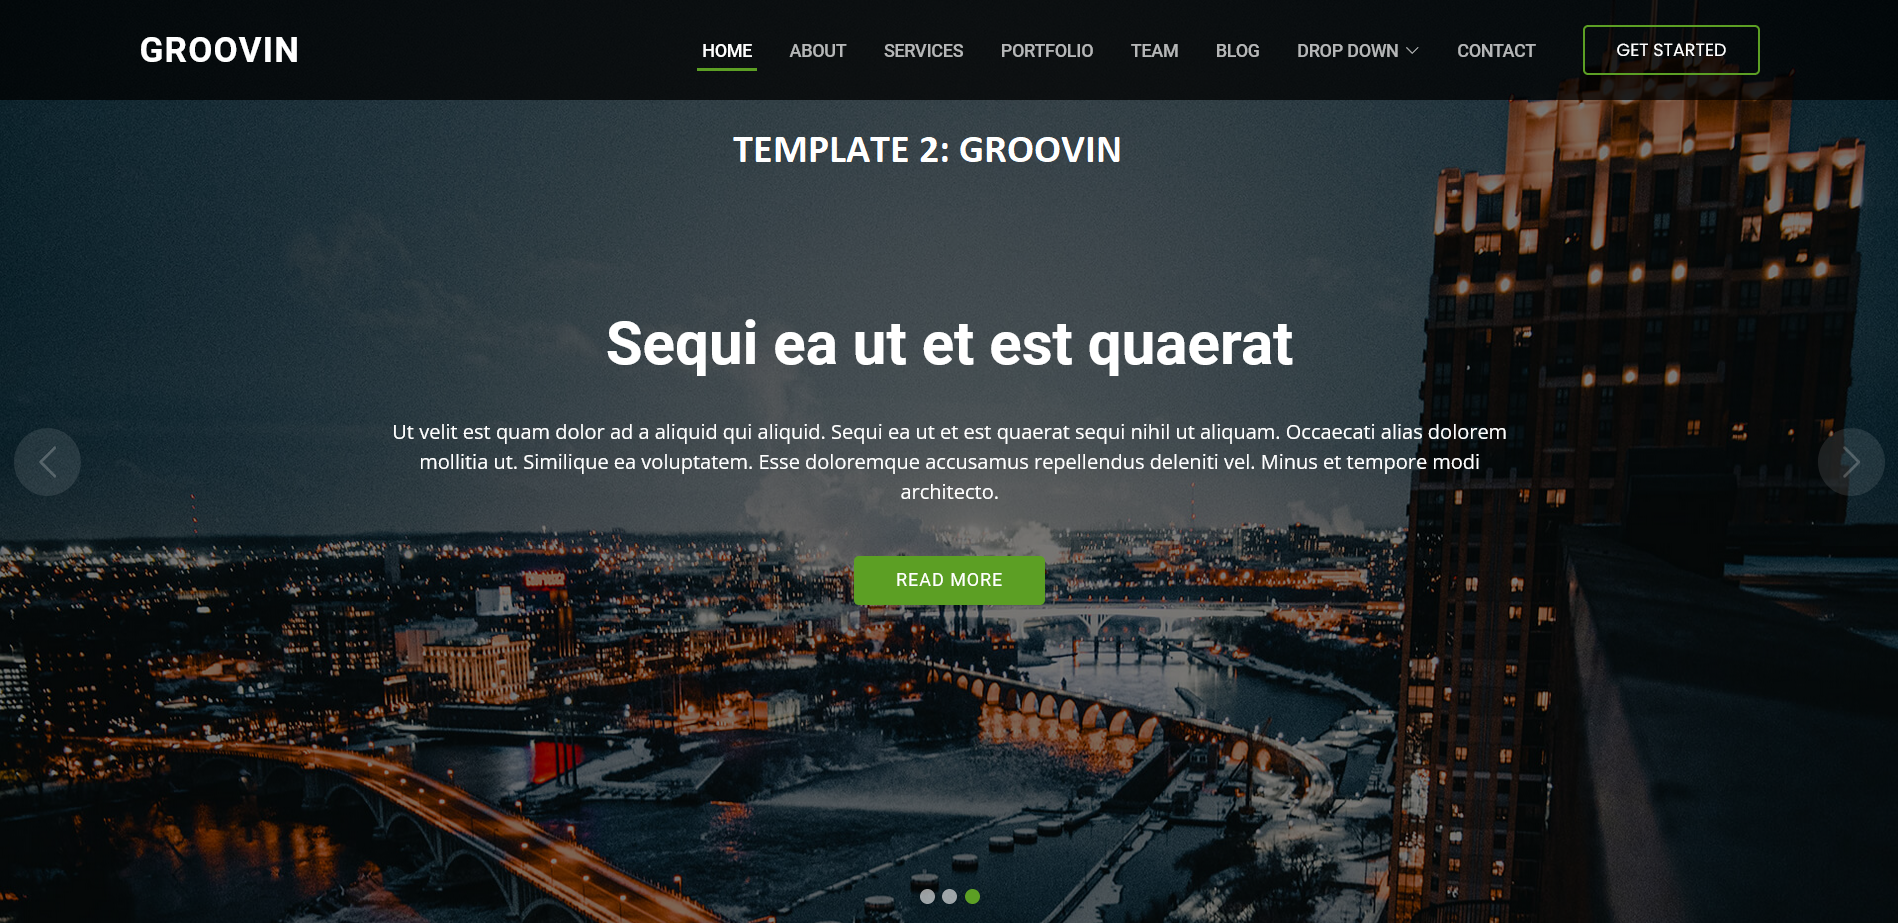
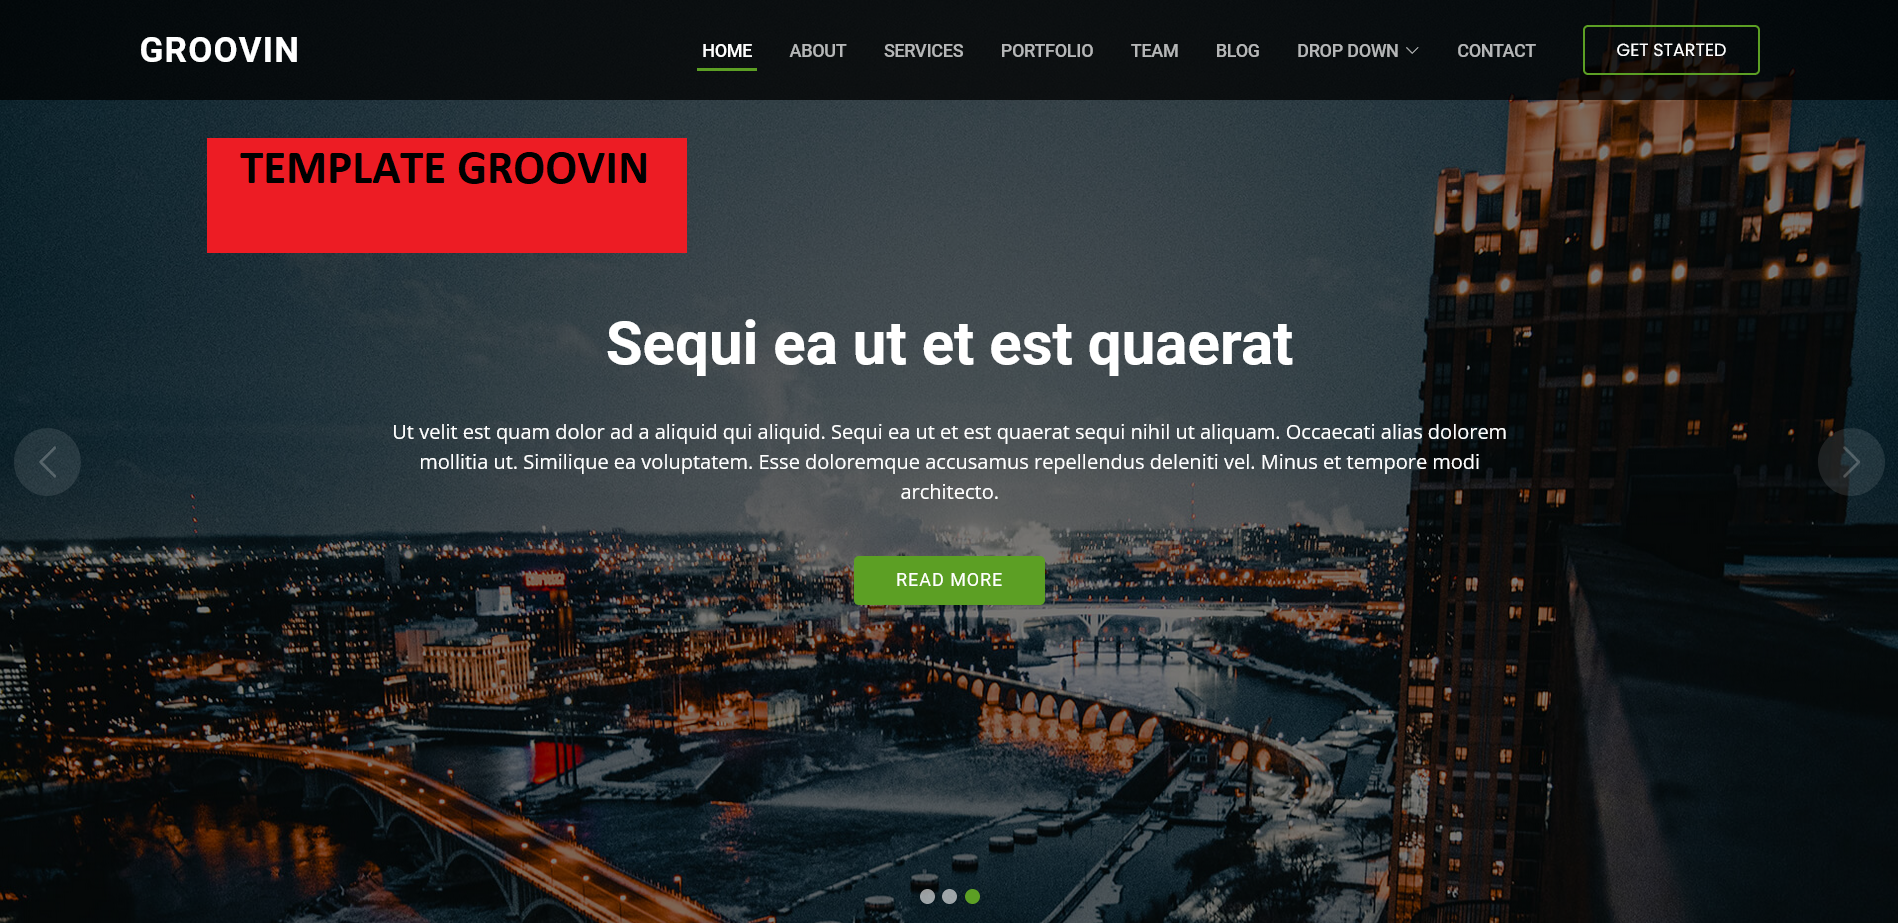
Template names added

Changed region(s): [[0.0933, 0.1517, 0.5906, 0.273]]

diff --git a/index-stage.html b/index-stage.html
@@ -961,21 +961,24 @@
 
 
     <!--Maps Section-->
-    <div id="location" class="head_title text-center">
-        <h2>OUR LOCATION</h2>
-        <div class="separator_auto"></div>
-        <p>Find us on the Map.</p>
-    </div>
-    <div class="main_maps text-center fix">
-        <!-- <div class="overlay" id="location"></div> -->
-        <div class="maps_text">
-            <a href="https://maps.app.goo.gl/AwAjYa4PDJqX9L2x7" target="_blank">
-                <img src="assets/images/loc.png">
-            </a>
-            <!-- <div id="map_canvas" class="mapheight"></div>
-        </div> -->
+    <section class="lightbg">
+        <div id="location" class="head_title text-center">
+            </br></br>
+            <h2>OUR LOCATION</h2>
+            <div class="separator_auto"></div>
+            <p>Find us on the Map.</p>
         </div>
-        <!-- <div id="location" class="col-md-8 col-md-offset-2 col-sm-12">
+        <div class="main_maps text-center fix">
+            <!-- <div class="overlay" id="location"></div> -->
+            <div class="maps_text">
+                <a href="https://maps.app.goo.gl/AwAjYa4PDJqX9L2x7" target="_blank">
+                    <img src="assets/images/loc.png">
+                </a>
+                <!-- <div id="map_canvas" class="mapheight"></div>
+        </div> -->
+            </div>
+    </section>
+    <!-- <div id="location" class="col-md-8 col-md-offset-2 col-sm-12">
         <div class="head_title text-center">
             <h2>OUR LOCATION</h2>
             <div class="separator_auto"></div>
@@ -988,48 +991,48 @@
                 </a>
                 <div id="map_canvas" class="mapheight"></div>
             </div> -->
-        <!-- </div>End off Maps Section -->
-        <!-- Maps Section-->
-        <!-- <div id="location" class="col-md-8 col-md-offset-2 col-sm-12">
+    <!-- </div>End off Maps Section -->
+    <!-- Maps Section-->
+    <!-- <div id="location" class="col-md-8 col-md-offset-2 col-sm-12">
         <div class="head_title text-center">
             <h2>OUR LOCATION</h2>
             <div class="separator_auto"></div> -->
-        <!-- <p>We are located in Houston, Texas based in USA.</p> -->
-        <!-- </div>
+    <!-- <p>We are located in Houston, Texas based in USA.</p> -->
+    <!-- </div>
     </div> -->
-        <!-- <div class="main_maps text-center fix">
+    <!-- <div class="main_maps text-center fix">
         <iframe
             src="https://www.google.com/maps/embed?pb=!1m14!1m12!1m3!1d78387.13506886507!2d-95.35204380098939!3d29.741279686142008!2m3!1f0!2f0!3f0!3m2!1i1024!2i768!4f13.1!5e0!3m2!1sen!2sus!4v1715221805246!5m2!1sen!2sus"
             width="2400" height="450" style="border:0;" allowfullscreen="" loading="lazy"
             referrerpolicy="no-referrer-when-downgrade"></iframe> -->
-        <!-- </div>End off Maps Section -->
+    <!-- </div>End off Maps Section -->
 
 
-        <!--Contact Us Section-->
-        <section id="contact" class="contact bg-mega fix">
-            <div class="container">
-                <div class="row">
-                    <div class="main_contact roomy-100 text-white">
-                        <div class="col-md-4">
-                            <div class="rage_widget">
-                                <div class="widget_head">
-                                    <h3 class="text-white">24WebConnect.</h3>
-                                    <div class="separator_small"></div>
-                                </div>
-                                <p>Feel free to contact us. </p>
+    <!--Contact Us Section-->
+    <section id="contact" class="contact bg-mega fix">
+        <div class="container">
+            <div class="row">
+                <div class="main_contact roomy-100 text-white">
+                    <div class="col-md-4">
+                        <div class="rage_widget">
+                            <div class="widget_head">
+                                <h3 class="text-white">24WebConnect.</h3>
+                                <div class="separator_small"></div>
+                            </div>
+                            <p>Feel free to contact us. </p>
 
-                                <div class="widget_socail m-top-30">
-                                    <ul class="list-inline">
-                                        <li><a href=""><i class="fa fa-facebook"></i></a></li>
-                                        <li><a href=""><i class="fa fa-twitter"></i></a></li>
-                                        <li><a href=""><i class="fa fa-linkedin"></i></a></li>
-                                        <li><a href=""><i class="fa fa-vimeo"></i></a></li>
-                                        <li><a href=""><i class="fa fa-instagram"></i></a></li>
-                                    </ul>
-                                </div>
+                            <div class="widget_socail m-top-30">
+                                <ul class="list-inline">
+                                    <li><a href=""><i class="fa fa-facebook"></i></a></li>
+                                    <li><a href=""><i class="fa fa-twitter"></i></a></li>
+                                    <li><a href=""><i class="fa fa-linkedin"></i></a></li>
+                                    <li><a href=""><i class="fa fa-vimeo"></i></a></li>
+                                    <li><a href=""><i class="fa fa-instagram"></i></a></li>
+                                </ul>
                             </div>
                         </div>
-                        <!-- <div class="col-md-8 sm-m-top-30">
+                    </div>
+                    <!-- <div class="col-md-8 sm-m-top-30">
                         <form class="" action="https://api.web3forms.com/submit" method="POST">
                             <div class="row">
                                 <div class="col-sm-6">
@@ -1062,38 +1065,38 @@
                         </form>
                     </div>
                 </div> -->
-                        <!-- </div>End off row -->
-                        <!-- </div>End off container -->
-                        <!-- <a href="https://forms.gle/LPYaLk8JSuLebx8s9" target="_blank">
+                    <!-- </div>End off row -->
+                    <!-- </div>End off container -->
+                    <!-- <a href="https://forms.gle/LPYaLk8JSuLebx8s9" target="_blank">
                         <h2>Click here for Details</h2>
                     </a> -->
-                        <!-- <iframe
+                    <!-- <iframe
                         src="https://docs.google.com/forms/d/e/1FAIpQLSdPJyshevIJ9iyU5UlvzIjOdxXL1t1EPE-ZDvK4TH4AUF9q9g/viewform?embedded=true"
                         width="640" height="956" frameborder="0" marginheight="0" marginwidth="0">Loading…</iframe> -->
-        </section><!--End off Contact Section-->
+    </section><!--End off Contact Section-->
 
 
-        <!-- scroll up-->
-        <div class="scrollup">
-            <a href="#"><i class="fa fa-chevron-up"></i></a>
-        </div><!-- End off scroll up -->
+    <!-- scroll up-->
+    <div class="scrollup">
+        <a href="#"><i class="fa fa-chevron-up"></i></a>
+    </div><!-- End off scroll up -->
 
 
-        <footer id="footer" class="footer bg-black">
-            <div class="container">
-                <div class="row">
-                    <div class="main_footer text-center p-top-40 p-bottom-30">
-                        <!-- <p class="wow fadeInRight" data-wow-duration="1s">
+    <footer id="footer" class="footer bg-black">
+        <div class="container">
+            <div class="row">
+                <div class="main_footer text-center p-top-40 p-bottom-30">
+                    <!-- <p class="wow fadeInRight" data-wow-duration="1s">
                         Made with
                         <i class="fa fa-heart"></i>
                         by
                         <a target="_blank" href="https://bootstrapthemes.co">Bootstrap Themes</a>
                         2016. All Rights Reserved
                     </p> -->
-                    </div>
                 </div>
             </div>
-        </footer>
+        </div>
+    </footer>
 
 
 
